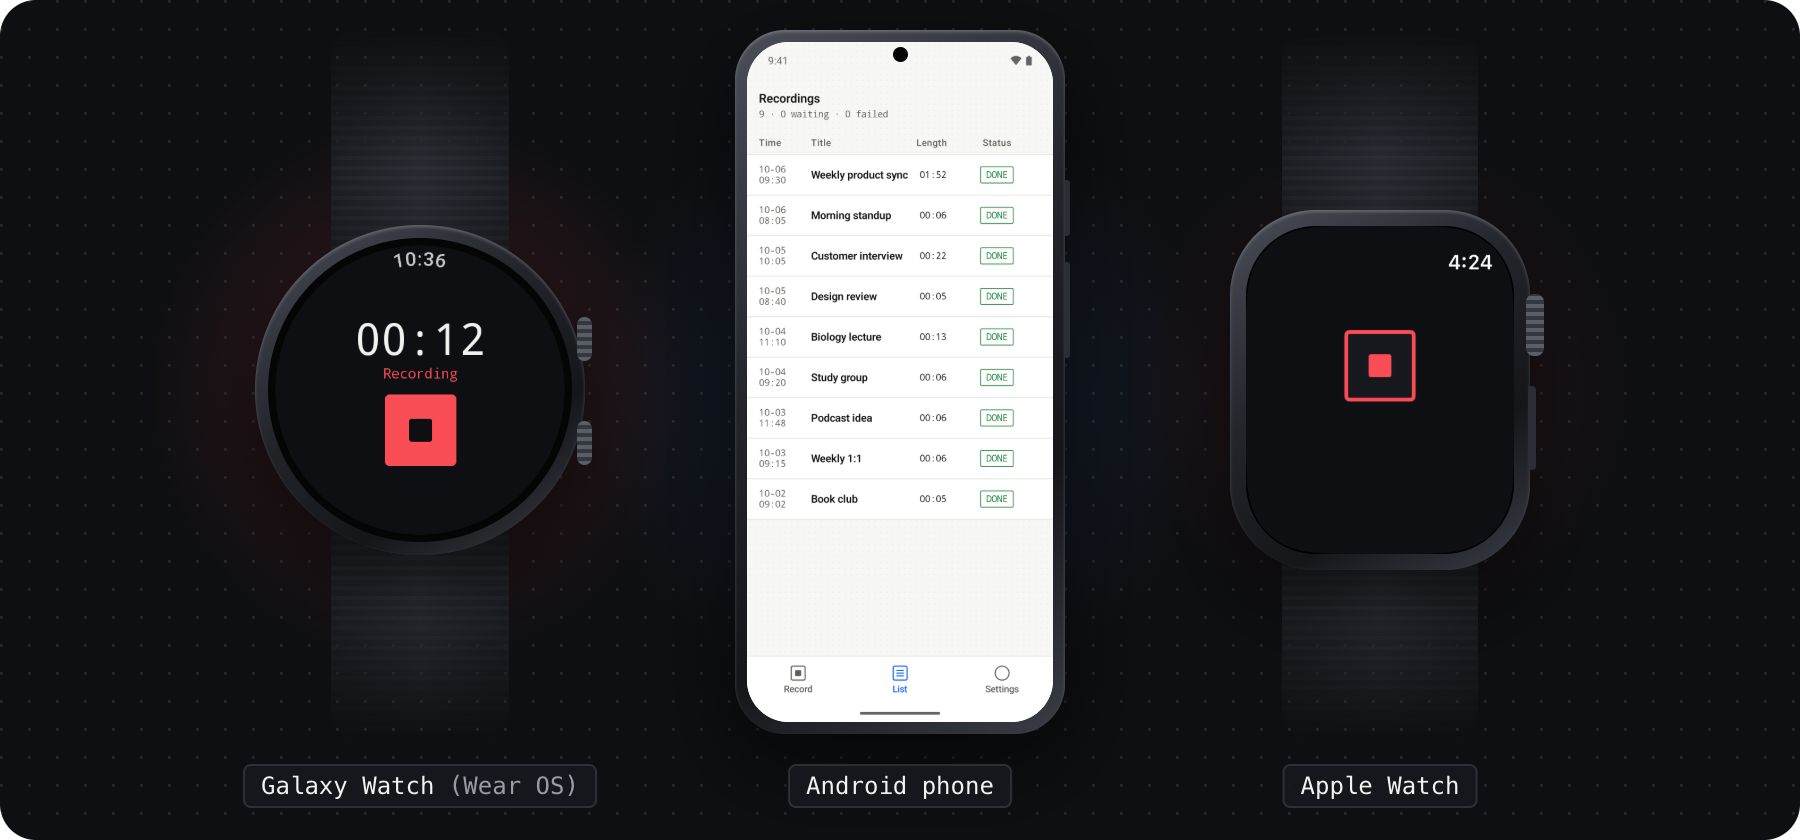
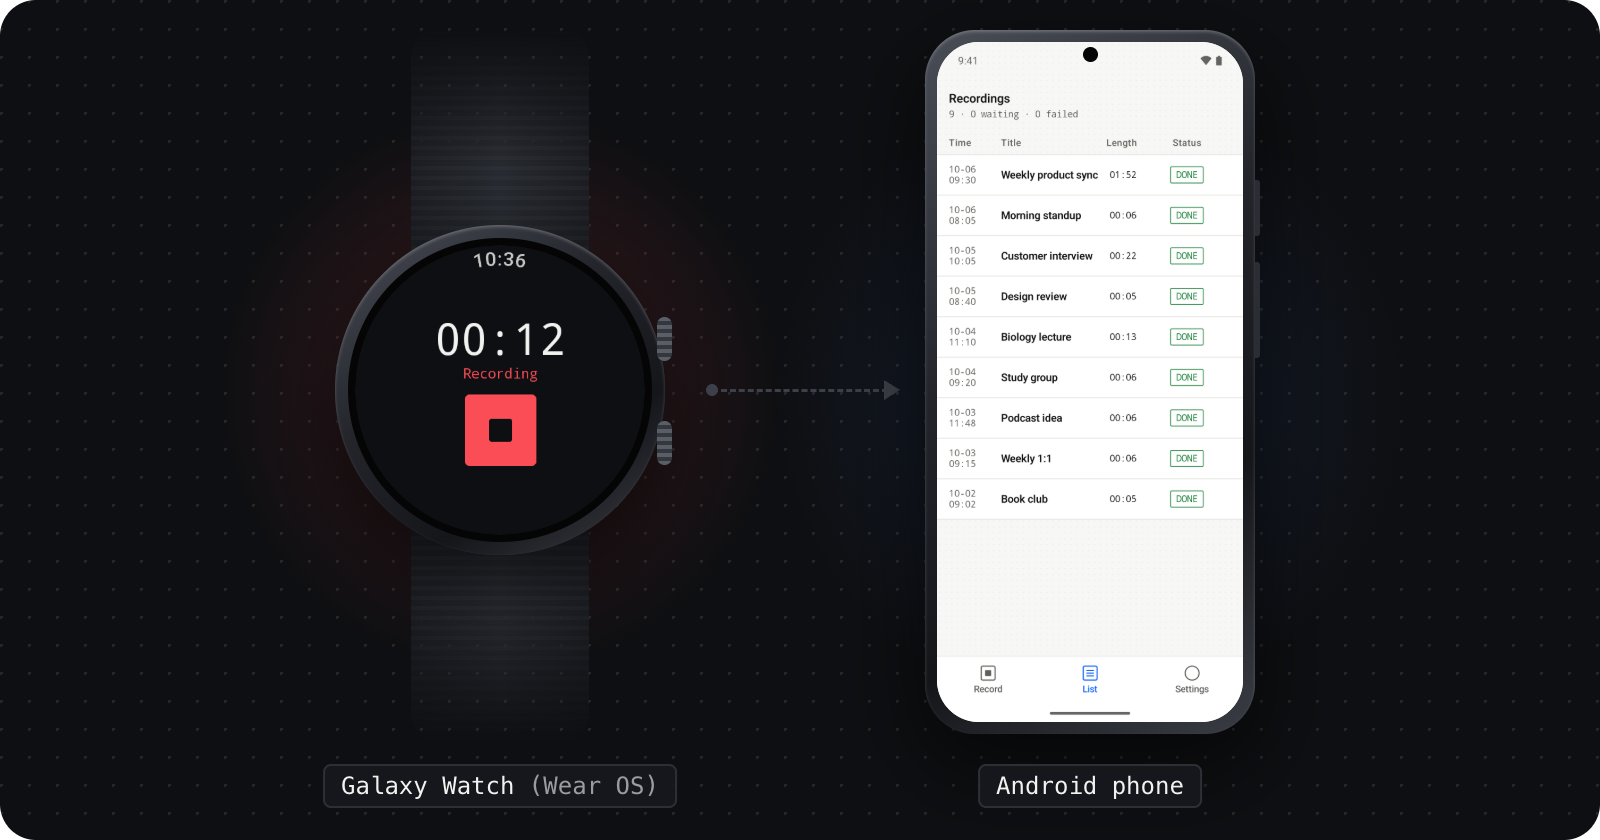
Show only the Galaxy Watch and the Android phone it hands off to in the README
Beside an Android phone, an Apple Watch read as a pair that does not exist, and its screen was idle
while the Galaxy Watch's was recording. The Clients image is now the Android pair alone, with the
hand-off drawn between them; the Apple side is the iPhone set at the top of the README. The Apple
Watch capture had no other use and is gone.

diff --git a/scripts/play-store/clients.html b/scripts/play-store/clients.html
@@ -3,20 +3,21 @@
 <head>
 <meta charset="utf-8">
 <!--
-  The README's Clients row, 1800×840 with rounded corners: Galaxy Watch, Android phone and Apple Watch side by
-  side in the frames the Play screenshots use. ?lang=en|ko. Galaxy Watch and Android are the Play captures
-  (README.md); Apple Watch is docs/design/screenshots/<lang>/apple-watch.png.
+  The README's Clients image, 1600×840 with rounded corners: the Galaxy Watch recording and the Android phone
+  it hands off to, in the frames the Play screenshots use. ?lang=en|ko. Both screens are the Play captures
+  (README.md). The Apple side is the iPhone set at the top of the README; an Apple Watch beside an Android phone
+  would read as a pair that does not exist.
 -->
 <style>
   :root {
-    --ground: #0E0F12; --ink: #F2F2F0; --muted: #9A9CA3; --line: #2C2F36;
+    --ground: #0E0F12; --ink: #F2F2F0; --muted: #9A9CA3; --line: #2C2F36; --wire: #3D4048;
     --sans: -apple-system, "SF Pro Display", "Apple SD Gothic Neo", system-ui, sans-serif;
     --mono: ui-monospace, "SF Mono", Menlo, "Apple SD Gothic Neo", monospace;
   }
   * { box-sizing: border-box; margin: 0; padding: 0; }
   /* The card, not body, carries the ground: a body background would paint the whole canvas, corners included. */
-  html, body { width: 1800px; height: 840px; overflow: hidden; }
-  .card { position: relative; width: 1800px; height: 840px; overflow: hidden; border-radius: 36px; background: var(--ground);
+  html, body { width: 1600px; height: 840px; overflow: hidden; }
+  .card { position: relative; width: 1600px; height: 840px; overflow: hidden; border-radius: 36px; background: var(--ground);
     font-family: var(--sans); color: var(--ink); -webkit-font-smoothing: antialiased; }
   .dots { position: absolute; inset: 0;
     background-image: radial-gradient(circle at 1px 1px, rgba(154,156,163,0.16) 1.6px, transparent 2px); background-size: 28px 28px; }
@@ -31,17 +32,19 @@
   .crown { position: absolute; border-radius: 8px; background: repeating-linear-gradient(0deg, #5a5e67 0 4px, #34373e 4px 8px); }
   img { display: block; width: 100%; height: 100%; }
 
-  .phone { left: 735px; top: 30px; width: 330px; height: 704px; border-radius: 50px; }
-  .phone .screen { position: absolute; left: 12px; top: 12px; right: 12px; bottom: 12px; border-radius: 42px; overflow: hidden; background: #F7F7F5; }
-  .phone .cam { position: absolute; left: 50%; top: 17px; width: 15px; height: 15px; margin-left: -7.5px; border-radius: 50%; background: #050506; }
-  .phone .key { position: absolute; right: -5px; width: 5px; border-radius: 0 3px 3px 0; background: #2a2d33; }
-
-  .gw { left: 255px; top: 225px; width: 330px; height: 330px; border-radius: 50%; }
+  .gw { left: 335px; top: 225px; width: 330px; height: 330px; border-radius: 50%; }
   .gw .bezel { position: absolute; inset: 13px; border-radius: 50%; background: #050506; }
   .gw .face { position: absolute; inset: 20px; border-radius: 50%; overflow: hidden; }
 
-  .aw { left: 1230px; top: 210px; width: 300px; height: 360px; border-radius: 86px; }
-  .aw .face { position: absolute; left: 16px; top: 16px; right: 16px; bottom: 16px; border-radius: 70px; overflow: hidden; background: #000; }
+  /* The hand-off: the watch's recording goes over to the phone. */
+  .wire { left: 712px; top: 389px; width: 176px; height: 0; border-top: 3px dashed var(--wire); }
+  .head { left: 884px; top: 380px; width: 0; height: 0; border-top: 10px solid transparent; border-bottom: 10px solid transparent; border-left: 16px solid var(--wire); }
+  .dot { width: 12px; height: 12px; margin: -6px 0 0 -6px; border-radius: 50%; background: var(--wire); }
+
+  .phone { left: 925px; top: 30px; width: 330px; height: 704px; border-radius: 50px; }
+  .phone .screen { position: absolute; left: 12px; top: 12px; right: 12px; bottom: 12px; border-radius: 42px; overflow: hidden; background: #F7F7F5; }
+  .phone .cam { position: absolute; left: 50%; top: 17px; width: 15px; height: 15px; margin-left: -7.5px; border-radius: 50%; background: #050506; }
+  .phone .key { position: absolute; right: -5px; width: 5px; border-radius: 0 3px 3px 0; background: #2a2d33; }
 
   .label { position: absolute; top: 764px; transform: translateX(-50%); font-family: var(--mono); font-size: 24px; color: var(--ink);
     border: 2px solid var(--line); border-radius: 8px; padding: 6px 16px; background: rgba(22,24,29,0.9); white-space: nowrap; }
@@ -51,18 +54,21 @@
 <body>
 <div class="card">
   <div class="dots"></div>
-  <div class="glow" style="left:420px;top:390px;width:760px;height:760px;background:radial-gradient(closest-side, rgba(250,77,86,0.22), transparent 72%)"></div>
-  <div class="glow" style="left:900px;top:400px;width:900px;height:900px;background:radial-gradient(closest-side, rgba(69,137,255,0.14), transparent 70%)"></div>
-  <div class="glow" style="left:1380px;top:390px;width:700px;height:700px;background:radial-gradient(closest-side, rgba(250,77,86,0.14), transparent 72%)"></div>
+  <div class="glow" style="left:500px;top:390px;width:780px;height:780px;background:radial-gradient(closest-side, rgba(250,77,86,0.22), transparent 72%)"></div>
+  <div class="glow" style="left:1090px;top:400px;width:900px;height:900px;background:radial-gradient(closest-side, rgba(69,137,255,0.14), transparent 70%)"></div>
 
   <!-- Galaxy Watch -->
-  <div class="band" style="left:420px;top:30px;width:178px;height:230px;border-radius:26px 26px 0 0;-webkit-mask-image:linear-gradient(to bottom, transparent, #000 60%)"></div>
-  <div class="band" style="left:420px;top:510px;width:178px;height:230px;border-radius:0 0 26px 26px;-webkit-mask-image:linear-gradient(to top, transparent, #000 60%)"></div>
+  <div class="band" style="left:500px;top:30px;width:178px;height:230px;border-radius:26px 26px 0 0;-webkit-mask-image:linear-gradient(to bottom, transparent, #000 60%)"></div>
+  <div class="band" style="left:500px;top:510px;width:178px;height:230px;border-radius:0 0 26px 26px;-webkit-mask-image:linear-gradient(to top, transparent, #000 60%)"></div>
   <div class="abs gw metal">
     <div class="crown" style="left:322px;top:92px;width:15px;height:44px"></div>
     <div class="crown" style="left:322px;top:196px;width:15px;height:44px"></div>
     <div class="bezel"></div><div class="face"><img id="gw"></div>
   </div>
+
+  <div class="abs wire"></div>
+  <div class="abs dot" style="left:712px;top:390px"></div>
+  <div class="abs head"></div>
 
   <!-- Android phone -->
   <div class="abs phone metal">
@@ -70,18 +76,8 @@
     <div class="screen"><img id="phone"></div><div class="cam"></div>
   </div>
 
-  <!-- Apple Watch -->
-  <div class="band" style="left:1380px;top:30px;width:196px;height:220px;border-radius:26px 26px 0 0;-webkit-mask-image:linear-gradient(to bottom, transparent, #000 60%)"></div>
-  <div class="band" style="left:1380px;top:520px;width:196px;height:220px;border-radius:0 0 26px 26px;-webkit-mask-image:linear-gradient(to top, transparent, #000 60%)"></div>
-  <div class="abs aw metal">
-    <div class="crown" style="left:296px;top:84px;width:18px;height:62px"></div>
-    <div class="abs" style="left:298px;top:176px;width:8px;height:84px;border-radius:0 4px 4px 0;background:#2a2d33"></div>
-    <div class="face"><img id="aw"></div>
-  </div>
-
-  <div class="label" style="left:420px" id="l1"></div>
-  <div class="label" style="left:900px" id="l2"></div>
-  <div class="label" style="left:1380px" id="l3"></div>
+  <div class="label" style="left:500px" id="l1"></div>
+  <div class="label" style="left:1090px" id="l2"></div>
 </div>
 
 <script>
@@ -91,18 +87,19 @@
   const captures = `../../build/play-store-assets/captures/${lang}`;
   document.getElementById('gw').src = `${captures}/wear-rec.png`;
   document.getElementById('phone').src = `${captures}/list.png`;
-  document.getElementById('aw').src = `../../docs/design/screenshots/${lang}/apple-watch.png`;
   // The client names as the table above the image has them.
-  const L = ko ? ['Galaxy Watch <b>(Wear OS)</b>', 'Android 폰', 'Apple Watch'] : ['Galaxy Watch <b>(Wear OS)</b>', 'Android phone', 'Apple Watch'];
+  const L = ko ? ['Galaxy Watch <b>(Wear OS)</b>', 'Android 폰'] : ['Galaxy Watch <b>(Wear OS)</b>', 'Android phone'];
   L.forEach((t, i) => { document.getElementById(`l${i + 1}`).innerHTML = t; });
   if (ko) document.getElementById('l2').style.fontFamily = 'var(--sans)';
 
   window.addEventListener('load', () => {
     const out = [];
+    const r = s => document.querySelector(s).getBoundingClientRect();
     if ([...document.images].some(i => !i.complete || i.naturalWidth === 0)) out.push('image missing');
-    const boxes = [1, 2, 3].map(i => document.getElementById(`l${i}`).getBoundingClientRect());
-    if (boxes[0].right > boxes[1].left - 24 || boxes[1].right > boxes[2].left - 24) out.push('labels touch');
-    if (boxes.some(b => b.bottom > 840 - 20)) out.push('label too low');
+    const [a, b] = [1, 2].map(i => document.getElementById(`l${i}`).getBoundingClientRect());
+    if (a.right > b.left - 24) out.push('labels touch');
+    if (Math.max(a.bottom, b.bottom) > 840 - 20) out.push('label too low');
+    if (r('.wire').left < r('.gw').right + 30 || r('.head').right > r('.phone').left - 12) out.push('hand-off arrow touches a device');
     document.body.dataset.m = JSON.stringify({ out });
   });
 </script>

diff --git a/scripts/play-store/README.md b/scripts/play-store/README.md
@@ -4,9 +4,8 @@ Templates and scripts for the Google Play listing graphics. The app's screens in
 emulators holding demo recordings, not mock-ups. Captures and renders live in `build/play-store-assets/`
 (gitignored, like the App Store set in `build/app-store-assets/`).
 
-`clients.html` uses the same captures for the top-level README's Clients image, which `render.mjs` writes to
-`docs/design/screenshots/<lang>/clients.png` (committed). Its Apple Watch screen is
-`docs/design/screenshots/<lang>/apple-watch.png`.
+`clients.html` uses the same captures for the top-level README's Clients image (Galaxy Watch handing off to
+the Android phone), which `render.mjs` writes to `docs/design/screenshots/<lang>/clients.png` (committed).
 
 ## Upload map (Play Console → Grow users → Store presence → Main store listing)
 

diff --git a/README.md b/README.md
@@ -219,7 +219,7 @@ Edit a skill, or copy one and [write your own](skills/README.md#write-your-own).
 All six share one Kotlin Multiplatform core: the fixed recording flow, resumable Drive uploads,
 transcription adapters and the job queue.
 
-<p align="center"><img src="docs/design/screenshots/en/clients.png" width="100%" alt="Galaxy Watch recording, the Android phone's list of recordings, and Apple Watch ready to record"></p>
+<p align="center"><img src="docs/design/screenshots/en/clients.png" width="100%" alt="A Galaxy Watch recording hands off to the Android phone, which lists the recordings"></p>
 
 ## Privacy
 
